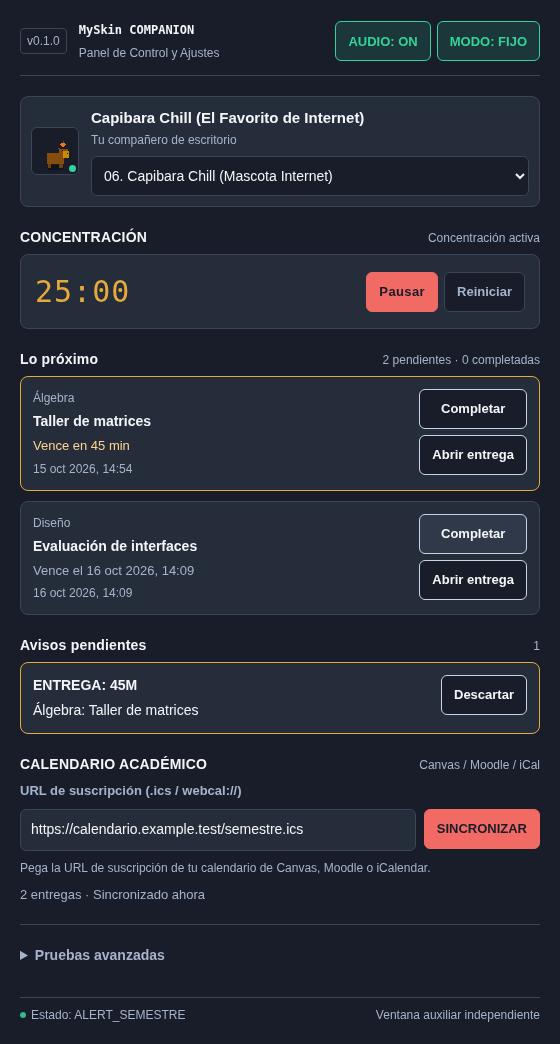
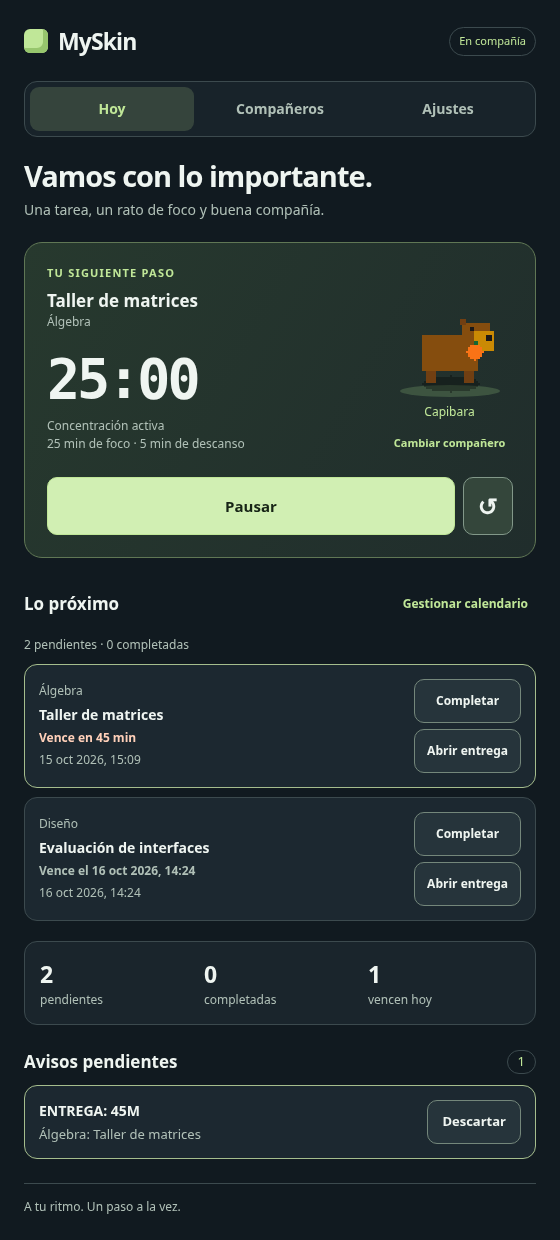
docs: document the live three-tab workflow and phase two evidence
Refresh the README, roadmap, architecture decisions and screenshots. Record fourteen Chromium tests and distinguish implemented calendar flows from future prototype features.

diff --git a/README.md b/README.md
@@ -10,9 +10,10 @@ Elige un personaje, inicia una sesión de concentración y consulta lo próximo 
 tienes que entregar. MySkin reúne ese flujo en un controlador y lo acompaña con
 un personaje flotante, animaciones y audio retro.
 
-La estabilización actual se encuentra en la rama
-[`feat/estabilizacion-myskin`](https://github.com/luisrodriguez-rgb/My-Skin/tree/feat/estabilizacion-myskin),
-con revisión en el [PR #1](https://github.com/luisrodriguez-rgb/My-Skin/pull/1).
+La Fase 2 integra el diseño del prototipo en las vistas **Hoy, Compañeros y
+Ajustes**. Se desarrolla en la rama
+[`feat/circuito-diario-hoy`](https://github.com/luisrodriguez-rgb/My-Skin/tree/feat/circuito-diario-hoy),
+sobre la estabilización ya integrada en `main`.
 
 [Empezar](#empezar-en-modo-web) · [Pruebas](#validación) ·
 [Roadmap](docs/AUDIT_AND_ROADMAP.md) ·
@@ -22,7 +23,7 @@ con revisión en el [PR #1](https://github.com/luisrodriguez-rgb/My-Skin/pull/1)
 
 | Función | Comportamiento actual |
 | --- | --- |
-| **Elegir compañero** | Diez skins con vista previa, seis estados de animación y selección persistente. |
+| **Elegir compañero** | Galería de diez skins con vista previa, selección confirmada y persistencia entre aperturas. |
 | **Concentrarte** | Pomodoro de 25 minutos de foco y 5 de descanso, con pausa, reanudación y reinicio. Cerrar el controlador conserva la sesión. |
 | **Consultar entregas** | Importar un calendario `.ics` o `webcal://` y ver curso, título, fecha y tiempo restante. |
 | **Actuar sobre una tarea** | Marcarla como completada en MySkin o abrir su enlace HTTP(S) en el navegador. Las completadas se conservan al resincronizar. |
@@ -45,9 +46,22 @@ modifica el estado de entrega en Canvas, Moodle u otro LMS.
 </p>
 
 Captura de la aplicación en simulación web, con entregas de ejemplo y zona horaria
-de Bogotá. La [demostración animada del personaje](docs/images/demo.webp) y el
+de Bogotá. También puedes ver la [galería de compañeros](docs/images/companions-current.png),
+los [ajustes](docs/images/settings-current.png) y la [vista a 390 px](docs/images/today-390.png).
+La [demostración animada del personaje](docs/images/demo.webp) y el
 [registro de las siete correcciones](docs/audits/2026-10-15/CORRECCIONES.md)
 complementan esta vista.
+
+### Tres vistas para el día a día
+
+| Pestaña | Qué reúne |
+| --- | --- |
+| **Hoy** | Próxima entrega, compañero protagonista, Pomodoro, lista de tareas, resumen del calendario y avisos. |
+| **Compañeros** | Galería de los diez personajes, personalidad breve, vista previa y selección activa. |
+| **Ajustes** | Sonido, modo fijo/patrulla, calendario, repositorio de GitHub y pruebas avanzadas. |
+
+Cambiar de pestaña conserva el reloj y los borradores de conexión. Puedes navegar
+con flechas izquierda/derecha y `Inicio`/`Fin` cuando una pestaña tiene el foco.
 
 ## Empezar en modo web
 
@@ -55,7 +69,7 @@ Necesitas **Node.js 24.19.0** y **pnpm 11.25.0**, declarados en
 [`.node-version`](.node-version) y [`package.json`](package.json).
 
 ```bash
-git clone --branch feat/estabilizacion-myskin https://github.com/luisrodriguez-rgb/My-Skin.git
+git clone --branch feat/circuito-diario-hoy https://github.com/luisrodriguez-rgb/My-Skin.git
 cd My-Skin
 pnpm install --frozen-lockfile
 pnpm run dev
@@ -64,8 +78,8 @@ pnpm run dev
 1. Abre `http://localhost:5173/` para ver al personaje.
 2. Haz doble clic sobre él para abrir el controlador, o abre
    `http://localhost:5173/controller.html` en otra pestaña.
-3. Elige un compañero y pulsa **Concentrarme** para iniciar el Pomodoro.
-4. Pega la URL de suscripción de tu calendario y pulsa **Sincronizar** para cargar
+3. Elige un personaje en **Compañeros** y vuelve a **Hoy** para pulsar **Concentrarme**.
+4. En **Ajustes**, pega la URL de suscripción y pulsa **Sincronizar calendario** para cargar
    las entregas. Una instalación nueva comienza sin tareas de ejemplo.
 
 Mantén **una sola pestaña del personaje por origen**. Esa ventana ejecuta los
@@ -74,10 +88,10 @@ La simulación web permite probar el flujo de producto. La transparencia, el
 arrastre de ventanas, la patrulla del escritorio y el menú del sistema se ejecutan
 en Tauri.
 
-El monitor de GitHub utiliza por defecto `luisrodriguez-rgb/My-Skin`. Cambiar el
-repositorio o configurar un token se realiza mediante la API del servicio en
-[`src/githubMonitor.ts`](src/githubMonitor.ts); todavía no hay un formulario de
-conexión en el controlador.
+El monitor de GitHub utiliza por defecto `luisrodriguez-rgb/My-Skin`. En
+**Ajustes → GitHub** puedes elegir un repositorio público con el formato
+`propietario/repositorio`. La configuración de tokens para recursos privados
+sigue disponible mediante la API de [`src/githubMonitor.ts`](src/githubMonitor.ts).
 
 ## Ejecutar en escritorio
 
@@ -124,18 +138,19 @@ espacio descartan el aviso visible o abren el controlador.
 ## Validación
 
 Resultados registrados el **15 de octubre de 2026** para el código de la
-estabilización en `756598a`:
+Fase 2 en `b517497`:
 
 | Comprobación | Resultado |
 | --- | --- |
 | Servicios, calendarios, prioridades y enlaces | **34 pruebas unitarias aprobadas**. |
-| Flujos de personaje y controlador en Chromium | **11 pruebas E2E aprobadas**. |
+| Flujos de personaje y controlador en Chromium | **14 pruebas E2E aprobadas**. |
 | Tipos y empaquetado de las dos entradas | **TypeScript y Vite aprobados**. |
-| Accesibilidad automatizada del panel | Sin infracciones de Axe en los estados examinados, con controles avanzados cerrados y abiertos. |
+| Accesibilidad automatizada del panel | Sin infracciones de Axe en las tres pestañas examinadas, incluyendo validación de formularios y controles avanzados. |
 | Adaptación a ventanas estrechas | Sin desbordamiento horizontal a 280, 390 y 560 px; controles principales de al menos 40 px de alto. |
-| CI remoto | **Web y `cargo check` aprobados en macOS ARM, macOS Intel y Windows**. |
+| CI remoto | La base de estabilización pasó web y `cargo check` en macOS ARM/Intel y Windows. Consultar la ejecución de esta fase en GitHub Actions. |
 
-[Ver la ejecución de CI](https://github.com/luisrodriguez-rgb/My-Skin/actions/runs/38790669286).
+[CI de esta rama](https://github.com/luisrodriguez-rgb/My-Skin/actions?query=branch%3Afeat%2Fcircuito-diario-hoy) ·
+[CI aprobada de la base](https://github.com/luisrodriguez-rgb/My-Skin/actions/runs/38790669286).
 El análisis automático de accesibilidad cubre los estados probados; no constituye
 una certificación completa. Las pruebas de red usan respuestas controladas y no
 acreditan conexión con cuentas universitarias o repositorios privados.
@@ -166,7 +181,9 @@ pestañas del mismo origen en web.
 | Ruta | Responsabilidad |
 | --- | --- |
 | [`src/main.ts`](src/main.ts) | Canvas, animación, interacción y coordinación del estado. |
-| [`src/controller.ts`](src/controller.ts) | Entregas, formularios, avisos y controles del panel. |
+| [`src/controller.ts`](src/controller.ts) | Entregas, formularios, galería, avisos y controles del panel. |
+| [`src/controllerTabs.ts`](src/controllerTabs.ts) y [`src/controller.css`](src/controller.css) | Navegación accesible y diseño de las tres vistas. |
+| [`src/skinCatalog.ts`](src/skinCatalog.ts) | Catálogo y caché de vistas previas. |
 | [`src/notifications.ts`](src/notifications.ts) | Prioridades y duración de los avisos. |
 | [`src/pomodoro.ts`](src/pomodoro.ts) | Reloj basado en tiempo real y fases de concentración/descanso. |
 | [`src/calendar.ts`](src/calendar.ts) y [`src/syncService.ts`](src/syncService.ts) | Análisis con `ical.js`, sincronización, urgencia y persistencia de entregas. |
@@ -200,14 +217,16 @@ visual forman parte de la evolución prevista.
   memoria y energía, firma y notarización requieren validación adicional.
 
 El siguiente paso es completar la matriz de escritorio y probar calendarios reales.
-La navegación **Hoy / Compañeros / Ajustes** está documentada como propuesta de
-una próxima iteración.
+La navegación **Hoy / Compañeros / Ajustes** ya está integrada. La creación manual
+de tareas, el historial de sesiones/minutos y los controles adicionales de
+tranquilidad del prototipo quedan para próximas iteraciones.
 
 ## Documentación del proyecto
 
 - [Auditoría técnica y roadmap con criterios de aceptación](docs/AUDIT_AND_ROADMAP.md).
 - [Auditoría de producto y propuesta visual](docs/audits/2026-10-15/README.md).
 - [Siete correcciones implementadas y evidencia](docs/audits/2026-10-15/CORRECCIONES.md).
+- [Fase 2: navegación, decisiones y capturas](docs/PHASE_2_HOY.md).
 - [Matriz de validación nativa](docs/NATIVE_VALIDATION.md).
 - [Codebase Memory: instalación y uso](docs/CODEBASE_MEMORY.md).
 - [Decisiones de arquitectura](.codebase-memory/adr.md).

diff --git a/docs/PHASE_2_HOY.md b/docs/PHASE_2_HOY.md
@@ -1,0 +1,66 @@
+# Fase 2: Hoy, Compañeros y Ajustes
+
+15 de octubre de 2026. Código de la integración: `b517497`. Rama:
+`feat/circuito-diario-hoy`, basada en la estabilización integrada en main.
+
+## Resultado
+
+La estructura, paleta verde, tarjetas y galería de la
+[propuesta visual](audits/2026-10-15/propuesta.html) están conectadas a la aplicación.
+El controlador conserva su papel reactivo: las pestañas gestionan la vista,
+y main conserva los servicios y el único reloj de Pomodoro.
+
+| Vista | Comportamiento |
+| --- | --- |
+| Hoy | Recomienda la próxima entrega pendiente, muestra el compañero confirmado y el reloj; permite concentrarse, pausar, reiniciar, completar, abrir o descartar avisos. El resumen cuenta pendientes, completadas y entregas que vencen hoy en la zona local. |
+| Compañeros | Diez tarjetas con sprites reales y personalidad breve. La selección se confirma con el estado publicado por main. Un fallo conserva el personaje anterior y muestra el error. |
+| Ajustes | Sonido, fijo/patrulla, suscripción de calendario, repositorio público GitHub y controles de demostración en el apartado avanzado. |
+
+Las pestañas admiten flechas izquierda/derecha, Inicio y Fin. Navegar conserva el
+borrador del calendario, la validación y el reloj. El controlador puede abrirse
+antes que el personaje: la navegación sigue disponible y las acciones se habilitan
+cuando conecta con el propietario del estado.
+
+## Validación
+
+- **34 pruebas unitarias aprobadas** y build **TypeScript/Vite aprobado**.
+- **14 E2E Chromium aprobadas**: las 11 regresiones adaptadas a pestañas y tres
+  casos nuevos de teclado/borradores, repositorio GitHub y conexión tardía.
+- **Axe sin infracciones detectadas** en las tres vistas examinadas.
+- Sin desbordamiento horizontal a **280, 390 y 560 px**; controles principales
+  de al menos 40 px y foco de teclado visible.
+- [CI de esta rama](https://github.com/luisrodriguez-rgb/My-Skin/actions?query=branch%3Afeat%2Fcircuito-diario-hoy).
+  El backend Rust no se modificó. Las interacciones nativas requieren la
+  [matriz de escritorio](NATIVE_VALIDATION.md).
+
+Las pruebas se ejecutaron por grupos: 11 regresiones y tres nuevos recorridos.
+Las capturas siguientes se generaron en Chromium con calendario y respuestas de
+GitHub controlados, en zona horaria de Bogotá. No contienen datos personales.
+
+## Capturas de la aplicación
+
+### Hoy
+
+![Hoy con foco y entregas de ejemplo](images/controller-current.png)
+
+[Vista a 390 px](images/today-390.png).
+
+### Compañeros
+
+![Galería de los diez compañeros](images/companions-current.png)
+
+### Ajustes
+
+![Calendario, repositorio y preferencias reales](images/settings-current.png)
+
+## Decisiones y trabajo posterior
+
+El resumen usa los datos existentes del calendario. La creación manual de tareas,
+el historial de sesiones/minutos, el volumen, silencio temporal, reducción de
+movimiento configurable y detección de presentaciones del prototipo requieren
+servicios y pruebas adicionales; no se muestran como controles operativos.
+
+Completar sigue siendo una acción local a MySkin. La configuración de tokens
+privados se mantiene en la API del servicio, fuera del formulario de repositorios
+públicos. La revisión nativa, proveedores reales/CORS y mediciones de recursos
+conservan sus criterios pendientes.

diff --git a/docs/AUDIT_AND_ROADMAP.md b/docs/AUDIT_AND_ROADMAP.md
@@ -56,7 +56,7 @@ accionables, cola de prioridades, avisos con datos reales, una acción de
 concentración, errores persistentes, contraste y controles accesibles.
 El [registro de correcciones y capturas](audits/2026-10-15/CORRECCIONES.md)
 relaciona cada hallazgo con su prueba. La navegación Hoy / Compañeros / Ajustes
-sigue como propuesta para una iteración posterior.
+ya está integrada en el panel; ver [Fase 2](PHASE_2_HOY.md).
 
 ## Arquitectura de estado
 
@@ -82,7 +82,7 @@ concentración. Preferencias y entregas siguen persistidas en localStorage.
 | Comprobación | Resultado |
 | --- | --- |
 | Pruebas unitarias de servicios, cola de avisos y enlaces | 34 aprobadas |
-| Pruebas de Chromium con personaje y controlador | 11 aprobadas |
+| Pruebas de Chromium con personaje y controlador | 14 aprobadas |
 | Accesibilidad automatizada del panel poblado | Sin infracciones en los estados examinados; sin desbordamiento a 280/390/560 px |
 | Compilación TypeScript y Vite | Aprobada |
 | Descarga y checksum del instalador de Codebase Memory | Verificados |
@@ -117,7 +117,19 @@ no la integración del menú con el sistema operativo.
 - Varios monitores, escalas diferentes y escritorios virtuales requieren pruebas
   de escritorio. Los atajos actuales son locales a la ventana enfocada.
 
-## Roadmap con criterios de aceptación
+## Roadmap de producto: avance de las fases 1 y 2
+
+| Fase de producto | Estado | Criterio cubierto y seguimiento |
+| --- | --- | --- |
+| 1. Avisos correctos y legibilidad | Implementada y probada en web | Siete hallazgos corregidos, con pruebas de prioridades, tiempos y errores persistentes. |
+| 2. Hoy y diseño del prototipo | Navegación y circuito con calendario implementados en web | Hoy, Compañeros y Ajustes conectados al estado real. Foco, pausa, completar, galería y formularios conservan contexto. 14 E2E, teclado y Axe en las tres vistas. |
+| Ampliaciones del circuito diario | Pendientes | Tareas manuales, historial de sesiones/minutos y controles de tranquilidad adicionales. El resumen actual cuenta entregas reales del calendario. |
+
+La [evidencia de Fase 2](PHASE_2_HOY.md) distingue la integración del panel de las
+funciones adicionales que sólo existen en el prototipo. La validación de las
+interacciones de escritorio sigue pendiente.
+
+## Roadmap técnico con criterios de aceptación
 
 | Fase | Estado | Trabajo y criterio de cierre |
 | --- | --- | --- |

diff --git a/.codebase-memory/adr.md b/.codebase-memory/adr.md
@@ -40,6 +40,22 @@ HTTP(S) links open only on explicit user action; native code validates the URL
 and runs a fixed OS launcher off the UI thread. Task completion is local to MySkin,
 not a submission to the LMS.
 
+## Controller views
+
+Hoy, Companeros and Ajustes are local tab views. Roving keyboard focus supports
+arrows/Home/End. Tabs remain usable when the owner is offline; only data-command
+controls are disabled. Hidden panels retain DOM drafts and validation. Tab changes
+never restart owner services. Hoy uses actual pending/completed/due-today calendar
+counts, not fabricated focus history. The hero previews the confirmed owner skin
+and pet state; the gallery lazily caches previews of all ten skins.
+
+GitHub repository configuration is validated in both controller and owner. The
+owner persists it through GitHubMonitorService, clears queued activity for the
+old repository and restarts polling. No token entry or credential persistence was
+added. Skin loading state is published so the gallery marks the confirmed skin
+while a replacement loads or fails. The controller has its own stylesheet;
+the sprite overlay styling stays unchanged.
+
 ## GitHub and credentials
 
 PR monitoring uses updated-order pagination, a per-repository persisted cursor,
@@ -49,7 +65,7 @@ current process. OS credential storage and real provider validation remain pendi
 
 ## Validation and limits
 
-34 unit tests and 11 Chromium multi-window tests passed on 2026-10-15, along with
+34 unit tests and 14 Chromium multi-window tests passed on 2026-10-15, along with
 TypeScript/Vite build and frozen pnpm installation. Network tests use controlled
 fixtures. Native compilation is checked by GitHub Actions; interactive macOS/Windows UI
 tests, installer signing/notarization,

diff --git a/CHANGELOG.md b/CHANGELOG.md
@@ -4,12 +4,17 @@
 
 ### Added
 
+- Navegación Hoy / Compañeros / Ajustes con teclado y conservación del estado.
+- Galería de diez compañeros con vistas previas y selección confirmada.
+- Configuración del repositorio público de GitHub desde Ajustes.
+
 - Lista de entregas con curso, vencimiento y acciones para completar localmente
   o abrir la tarea en el navegador.
 - Lista de avisos pendientes que permite descartarlos sin perder otros eventos.
 
 ### Changed
 
+- Hoy presenta la próxima entrega, el compañero, el foco y un resumen del calendario.
 - Concentrarme inicia el Pomodoro; las animaciones de prueba quedan en el
   apartado avanzado.
 - Controles más grandes, textos con mayor contraste y navegación de teclado

diff --git a/docs/audits/2026-10-15/README.md b/docs/audits/2026-10-15/README.md
@@ -4,6 +4,8 @@
 
 **Actualización:** [ver las siete correcciones implementadas y sus capturas](CORRECCIONES.md).
 
+**Fase 2:** [ver Hoy, Compañeros y Ajustes implementados](../../PHASE_2_HOY.md).
+
 ## Abrir el contenido
 
 - **[Leer el informe completo aquí en GitHub](INFORME.md)**
